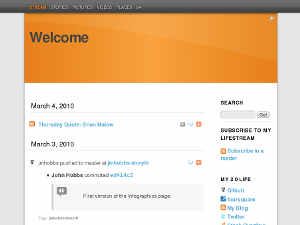
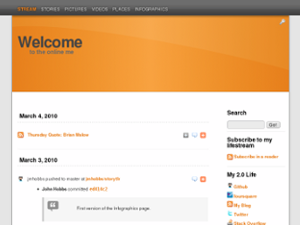
Finished Orange Glo theme.

diff --git a/themes/orangeglo/style.css b/themes/orangeglo/style.css
@@ -42,6 +42,10 @@ div.stories #content div.item_wrapper {
 	height: 60px;
 }
 
+#content > div.item_wrapper {
+	border-bottom: 1px solid #EEE;
+}
+
 div.item_comments {
 	margin: 0 0 25px 25px;
 }
@@ -151,10 +155,11 @@ div.tabMenu {
 }
 
 #content .date{
-	font-size: 20px;
+	font-size: 16px;
+	font-weight: bold;
 	padding: 5px;
 	background-color: transparent;
-	border-bottom: #cccccc 1px solid;
+	border-bottom: #cccccc 1px dashed;
 	color: #000000;
 	margin: 15px 0;
 }
@@ -211,30 +216,27 @@ body {
 	padding: 0;
 	color:#b9b9b9; 
 	font-family:Helvetica,Tahoma,Arial,sans-serif;
-	font-size: 16px;
+	font-size: 12px;
 	text-align: center;
-	background: url( 'images/background.png' ) repeat-x;
 }
 
 h2 {
 	color:#000000;
 	font-family: Helvetica, Sans-serif;
-	font-size: 15px;
+	font-size: 16px;
 	font-weight:bold;
-    letter-spacing:0.05em;
-    text-transform: uppercase;
 }
 
 a {
 	background-color:inherit; 
-	color:#53abd5; 
+	color:#E87F1D; 
 	font-weight:bold; 
 	text-decoration:none;
 }
 
 a:hover {
 	background-color:inherit; 
-	color:#53abd5; 
+	color:#FF8C20; 
 	font-weight:bold; 
 	text-decoration:underline;
 }
@@ -248,16 +250,18 @@ a img {
 */
 
 #pagewrapper {
-	margin: 20px 0;
-	background: #E5E5E5 url( 'images/page.png') repeat-y center center;
+	margin: 0;
+	background: #E5E5E5 url( 'images/background.png' ) repeat-x;
+	padding-top: 42px;
 }
 
 #page {
 	color: #333; 
 	width:760px;
 	margin:0 auto;
-	padding: 0 0 15px 0;
+	padding: 0 10px 15px;
 	text-align:left;
+	background: url( 'images/page.png') repeat-y center center;
 }
 
 #left-column {
@@ -274,7 +278,6 @@ a img {
 
 #header-wrapper {
 	height: 210px;
-	margin-top: 42px;
 	background: url( 'images/header.png' ) no-repeat;
 	border-bottom: 1px solid #CCC;
 }
@@ -297,13 +300,14 @@ a img {
 
 #header .description {
 	background-color:inherit; 
-	color:#777; 
-	font-size:1.1em; 
+	color:#676767; 
+	font-size:16px; 
 	font-weight:bold; 
 	line-height:1.3em; 
 	margin:0px 3px 0 18px; 
-	width:300px;
-	display: none;
+	position:relative;
+	top:90px;
+	left:30px;
 }
 
 div#login div {
